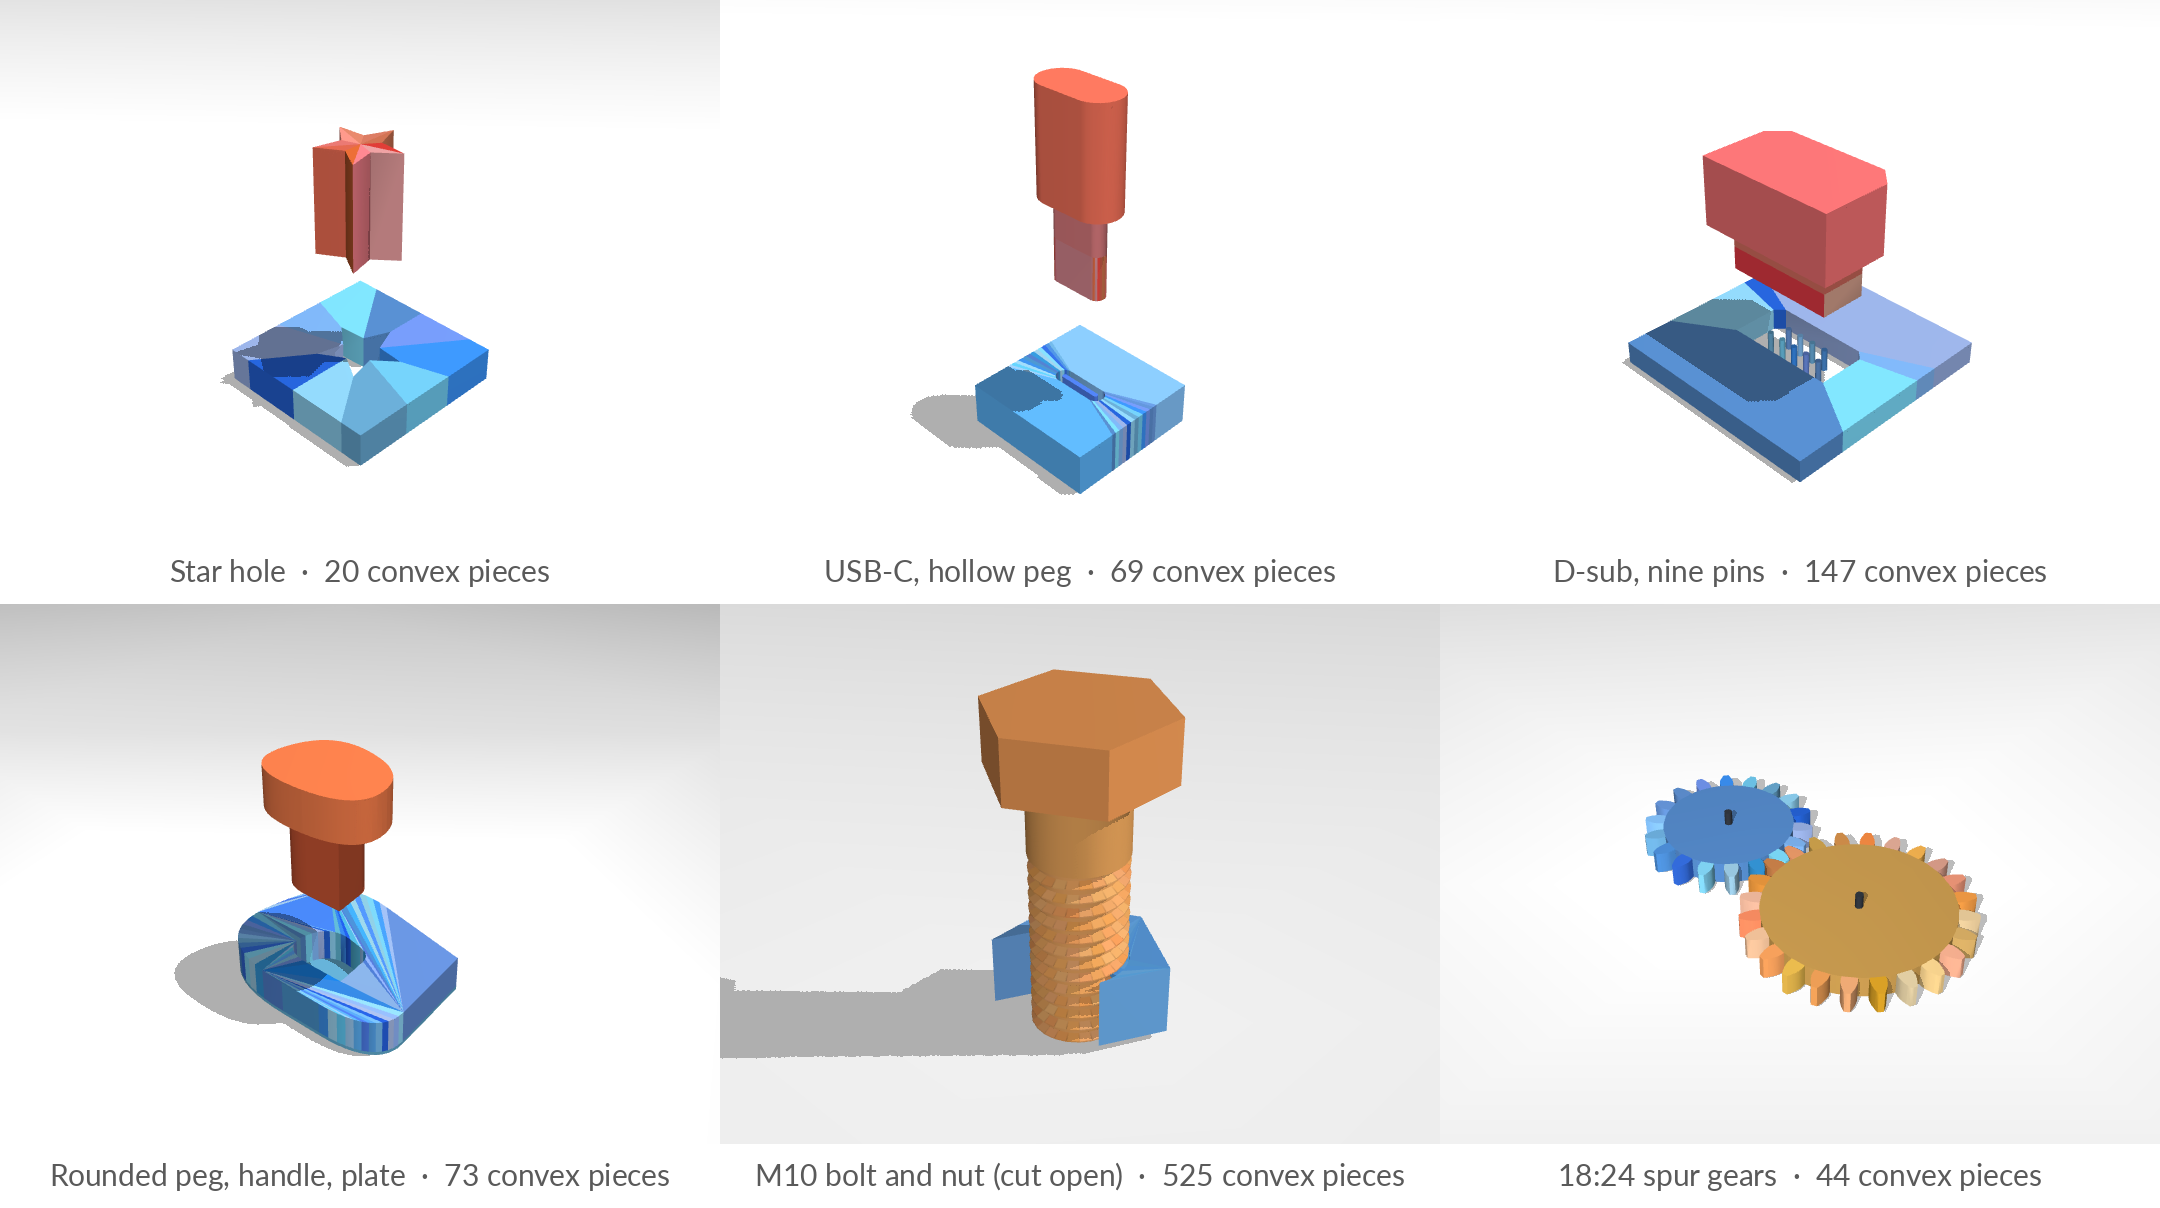
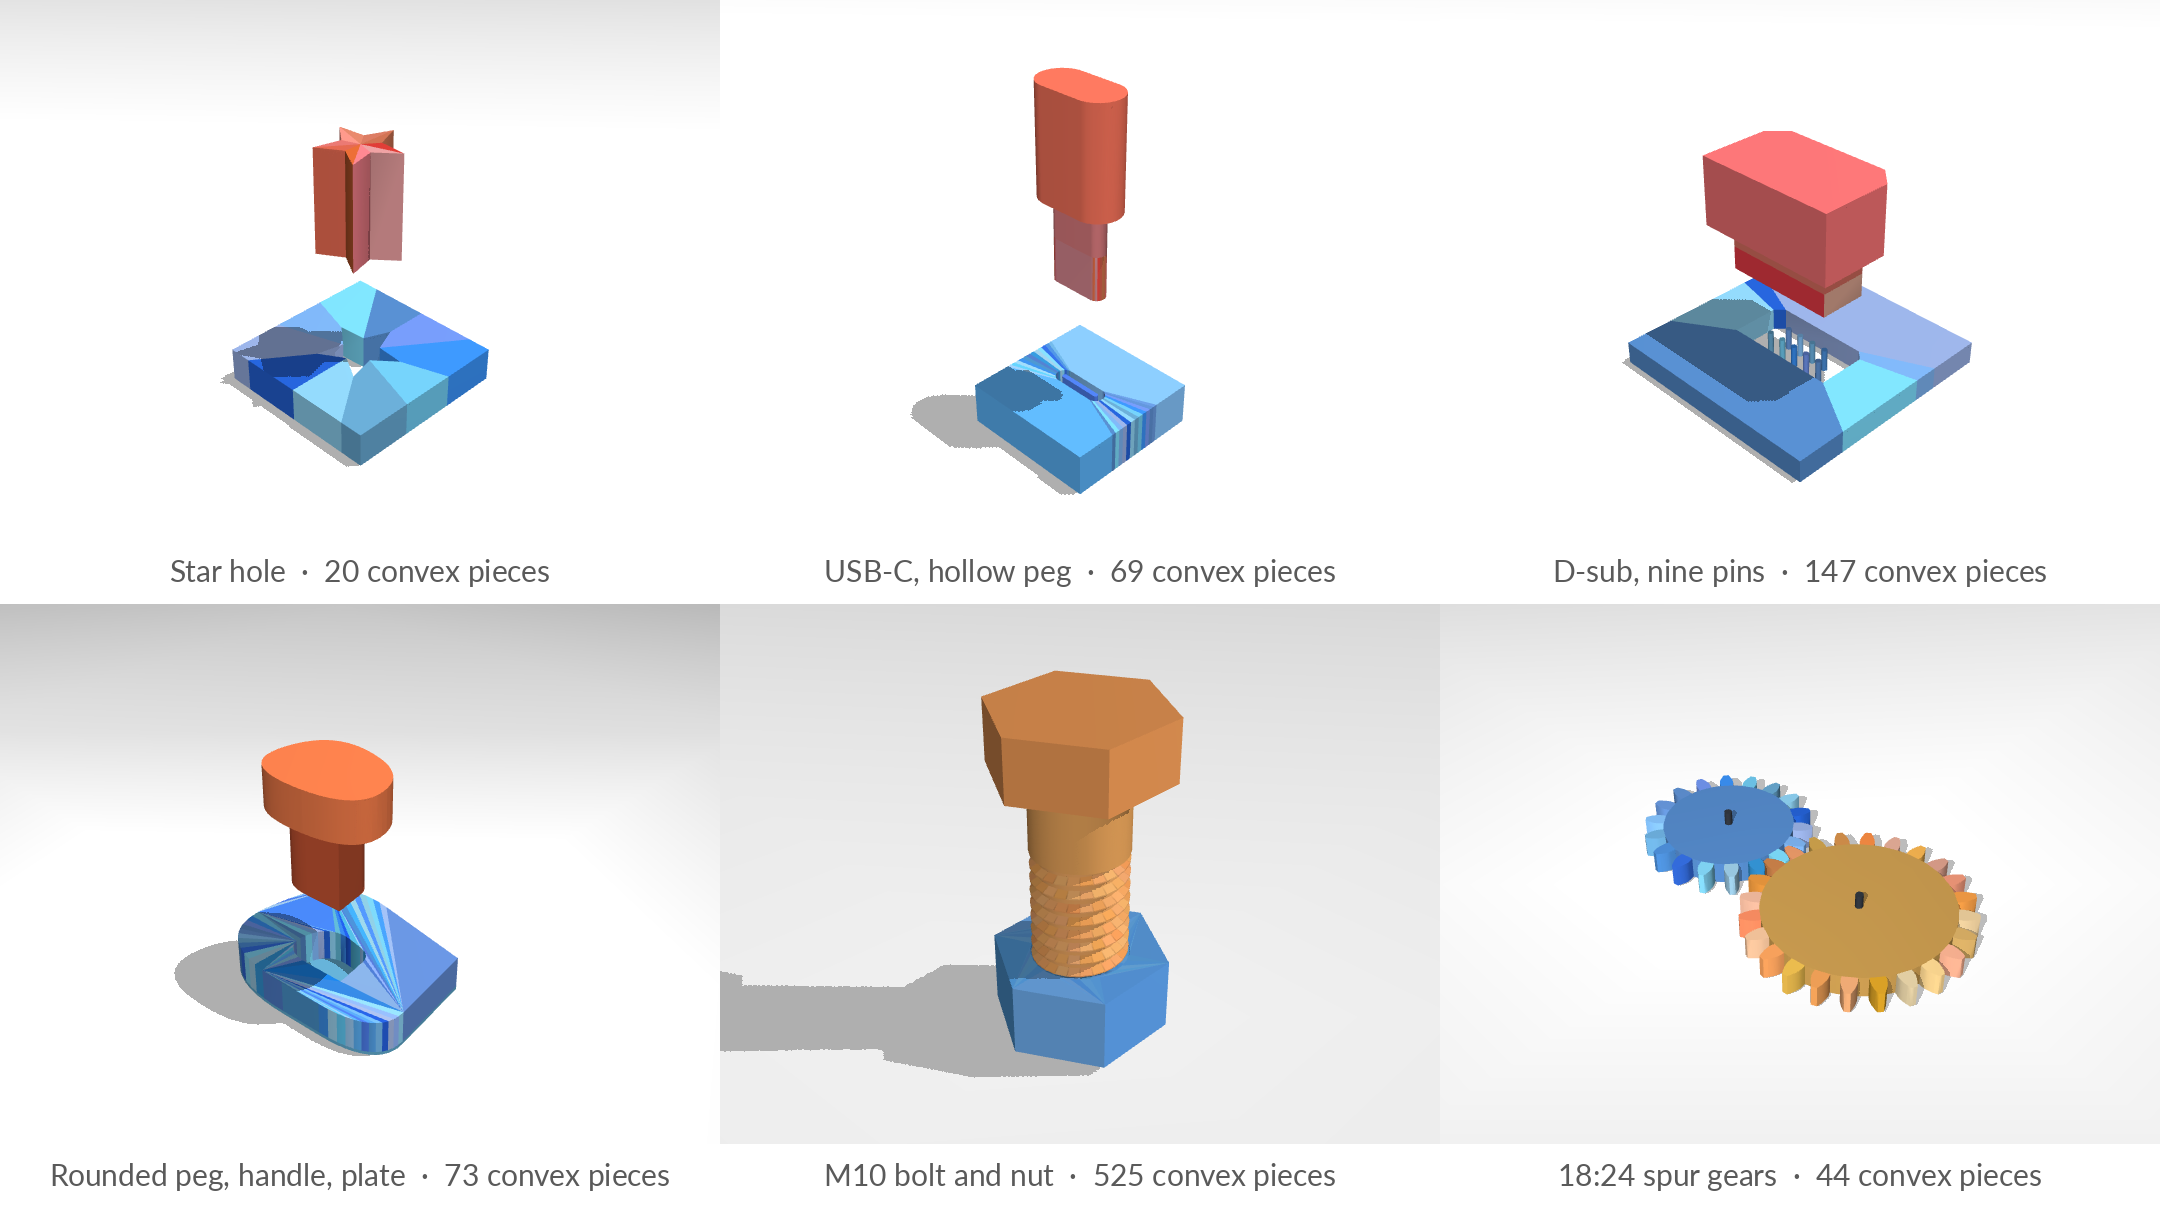
Gallery: show the whole M10 nut, not a cut-open half
Hiding the pieces on one side of y = 0 left a cut at 45 degrees to the
camera, so the nut showed four of its six sides and read as a broken
nut rather than a cutaway. Draw the whole nut, with the bolt screwed
through it, and drop "(cut open)" from the caption.

Changed region(s): [[0.3412, 0.7045, 0.5273, 0.8882], [0.3412, 0.9495, 0.6514, 0.9801], [0.4343, 0.582, 0.4653, 0.6432]]

diff --git a/docs/make_images.py b/docs/make_images.py
@@ -23,7 +23,7 @@ GALLERY = [
     ('usb_c', 'USB-C, hollow peg'),
     ('db9', 'D-sub, nine pins'),
     ('rounded_convex', 'Rounded peg, handle, plate'),
-    ('m10', 'M10 bolt and nut (cut open)'),
+    ('m10', 'M10 bolt and nut'),
     ('spur_pair', '18:24 spur gears'),
 ]
 
@@ -127,10 +127,6 @@ def tile(name: str) -> tuple[Image.Image, int]:
         turns = np.floor((data.qpos[j + 2] - model.body('nut').pos[2]) / lead + 1e-6)
         data.qpos[j + 2] -= turns * lead
     mujoco.mj_forward(model, data)
-    if kind == 'thread':  # cut the nut open
-        for g in range(model.ngeom):
-            if model.body(model.geom_bodyid[g]).name == 'nut' and data.geom_xpos[g][1] < 0:
-                model.geom_rgba[g, 3] = 0.0
     pieces = sum(
         1
         for g in range(model.ngeom)
